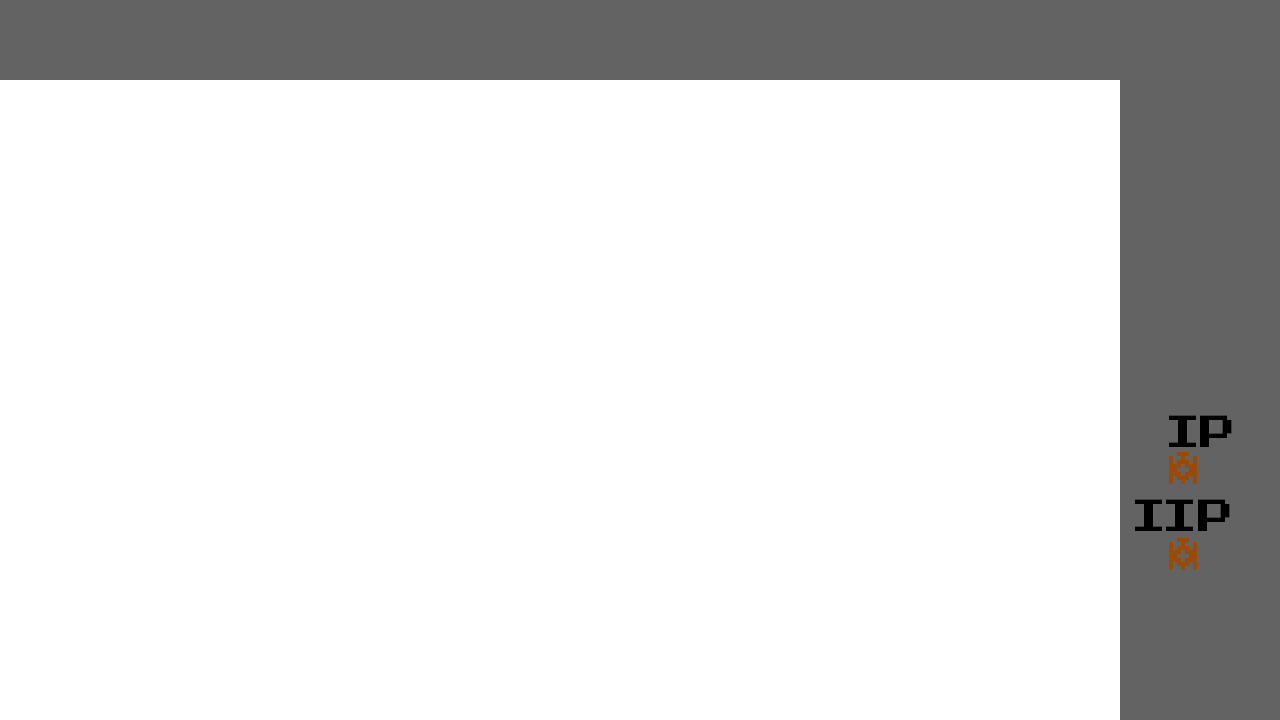
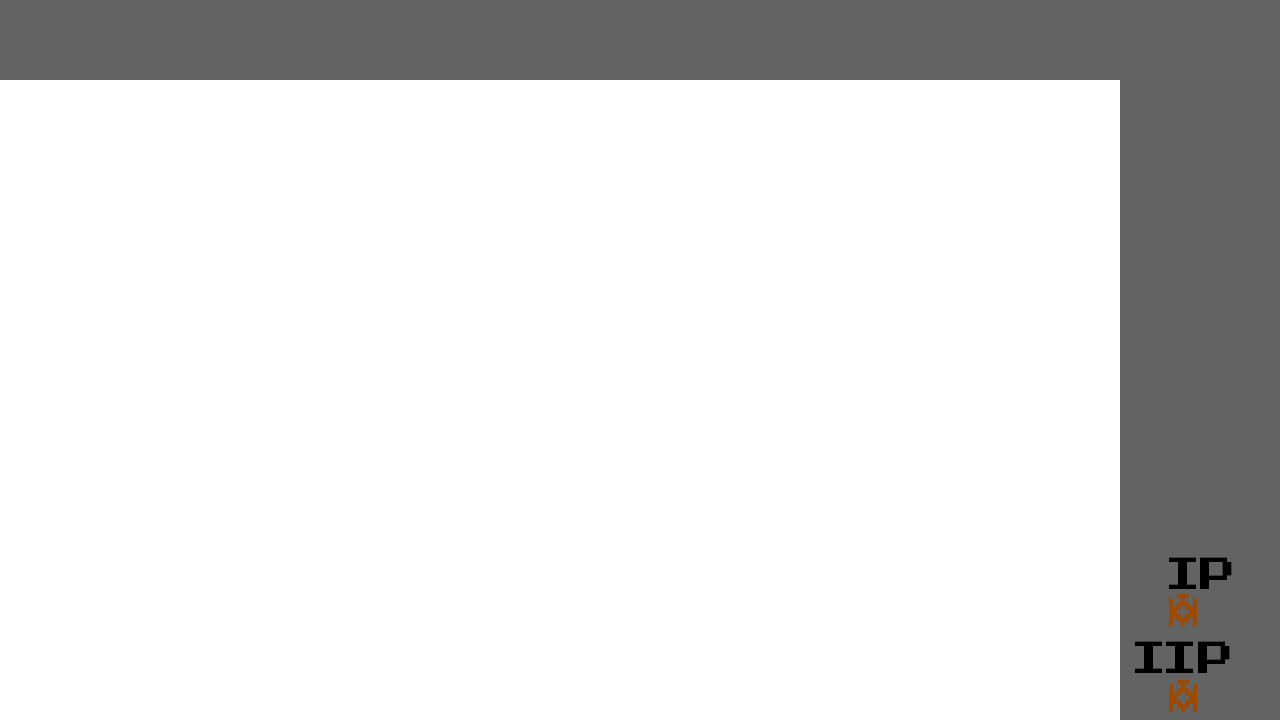
Draw enemies count

Changed region(s): [[0.875, 0.5806, 0.9688, 1.0]]

diff --git a/core/src/com/encamy/battlecity/LayerManager.java b/core/src/com/encamy/battlecity/LayerManager.java
@@ -50,6 +50,7 @@ public class LayerManager implements Settings.WallDestroyedCallback
     private BulletManager m_bulletManager;
     private NetworkManager m_networkManager;
     private Texture m_ui_background;
+    private Texture m_enemyIcon;
     private BitmapFont m_bitmapFont;
     private GlyphLayout m_glyphLayout;
 
@@ -90,6 +91,7 @@ public class LayerManager implements Settings.WallDestroyedCallback
         loadCollision(objects);
 
         m_ui_background = new Texture("UI_background.png");
+        m_enemyIcon = new Texture("enemy_icon.png");
 
         loaded = true;
     }
@@ -462,15 +464,35 @@ public class LayerManager implements Settings.WallDestroyedCallback
         return result;
     }
 
-    public void drawUI(SpriteBatch batch)
+    public void drawUI(SpriteBatch batch, int enemiesLeft)
     {
         //batch.draw(m_ui_background, getMapSize().x, Settings.SCREEN_HEIGHT - getMapSize().y);
         //batch.draw(m_ui_background, 0, Settings.SCREEN_HEIGHT - getMapSize().y);
         batch.draw(m_ui_background, 0, 0);
 
         float XOffset = Settings.SCREEN_WIDTH * 0.95f;
-        float YOffset = Settings.SCREEN_HEIGHT - (Settings.SCREEN_HEIGHT * 0.635f);
+        float YOffset = Settings.SCREEN_HEIGHT - (Settings.SCREEN_HEIGHT * 0.835f);
         m_glyphLayout.setText(m_bitmapFont, Integer.toString(m_players[0].getHealth()));
         m_bitmapFont.draw(batch, m_glyphLayout, XOffset, YOffset);
+
+        XOffset = Settings.SCREEN_WIDTH * 0.90f;
+        YOffset = Settings.SCREEN_HEIGHT - (Settings.SCREEN_HEIGHT * 0.10f);
+
+        if (enemiesLeft == 0)
+        {
+            return;
+        }
+
+        for (int i = 0; i < enemiesLeft / 2; i++)
+        {
+            batch.draw(m_enemyIcon, XOffset, YOffset);
+            batch.draw(m_enemyIcon, XOffset + 40, YOffset);
+            YOffset -= 50;
+        }
+
+        if (enemiesLeft % 2 != 0)
+        {
+            batch.draw(m_enemyIcon, XOffset, YOffset);
+        }
     }
 }

diff --git a/core/src/com/encamy/battlecity/entities/EnemyFactory.java b/core/src/com/encamy/battlecity/entities/EnemyFactory.java
@@ -31,6 +31,8 @@ public class EnemyFactory implements Settings.EnemyDestroyedCallback, Settings.O
     private MapObjects m_spawnPoints;
     private int m_currentRandomCounter = 0;
 
+    private static final int m_totalEnemies = 20;
+    private int m_spawnedEnemies = 0;
     private static final int m_spawnIntervalMs = 1000;
     private static final int m_maxEnemies = 4;
     private int m_elapsedTime = 0;
@@ -83,7 +85,7 @@ public class EnemyFactory implements Settings.EnemyDestroyedCallback, Settings.O
         {
             if (m_elapsedTime > m_spawnIntervalMs)
             {
-                if (m_enemies.size() < m_maxEnemies)
+                if (m_enemies.size() < m_maxEnemies && m_spawnedEnemies <= m_totalEnemies)
                 {
                     spawn();
                 }
@@ -144,6 +146,11 @@ public class EnemyFactory implements Settings.EnemyDestroyedCallback, Settings.O
         enemy.fire(bulletDirection);
     }
 
+    public int getEnemiesLeft()
+    {
+        return m_totalEnemies - m_spawnedEnemies;
+    }
+
     private Enemy CreateRandomEnemy(Vector2 spawnpoint)
     {
         m_last_id++;
@@ -161,6 +168,8 @@ public class EnemyFactory implements Settings.EnemyDestroyedCallback, Settings.O
         {
             m_onEnemySpawnedCallback.OnEnemySpawned(m_last_id, spawnpoint.x, spawnpoint.y, level);
         }
+
+        m_spawnedEnemies++;
 
         return new Enemy(spawnpoint, m_properties.Get(level), m_world, m_playerSteeringEntity, m_bulletManager, m_last_id++);
     }

diff --git a/core/src/com/encamy/battlecity/screens/GameScreen.java b/core/src/com/encamy/battlecity/screens/GameScreen.java
@@ -137,7 +137,7 @@ public class GameScreen implements
         m_layerManager.updatePlayers(m_spriteBatch, m_freezeWorld);
         m_enemyFactory.draw(m_spriteBatch, m_freezeWorld);
         m_layerManager.drawWalls(m_spriteBatch);
-        m_layerManager.drawUI(m_spriteBatch);
+        m_layerManager.drawUI(m_spriteBatch, m_enemyFactory.getEnemiesLeft());
         //Gdx.app.log("TRACE", "Map width = " + m_layerManager.getMapSize().x + " height = " + m_layerManager.getMapSize().y);
         m_bulletManager.update(m_spriteBatch);
         m_spriteBatch.end();
